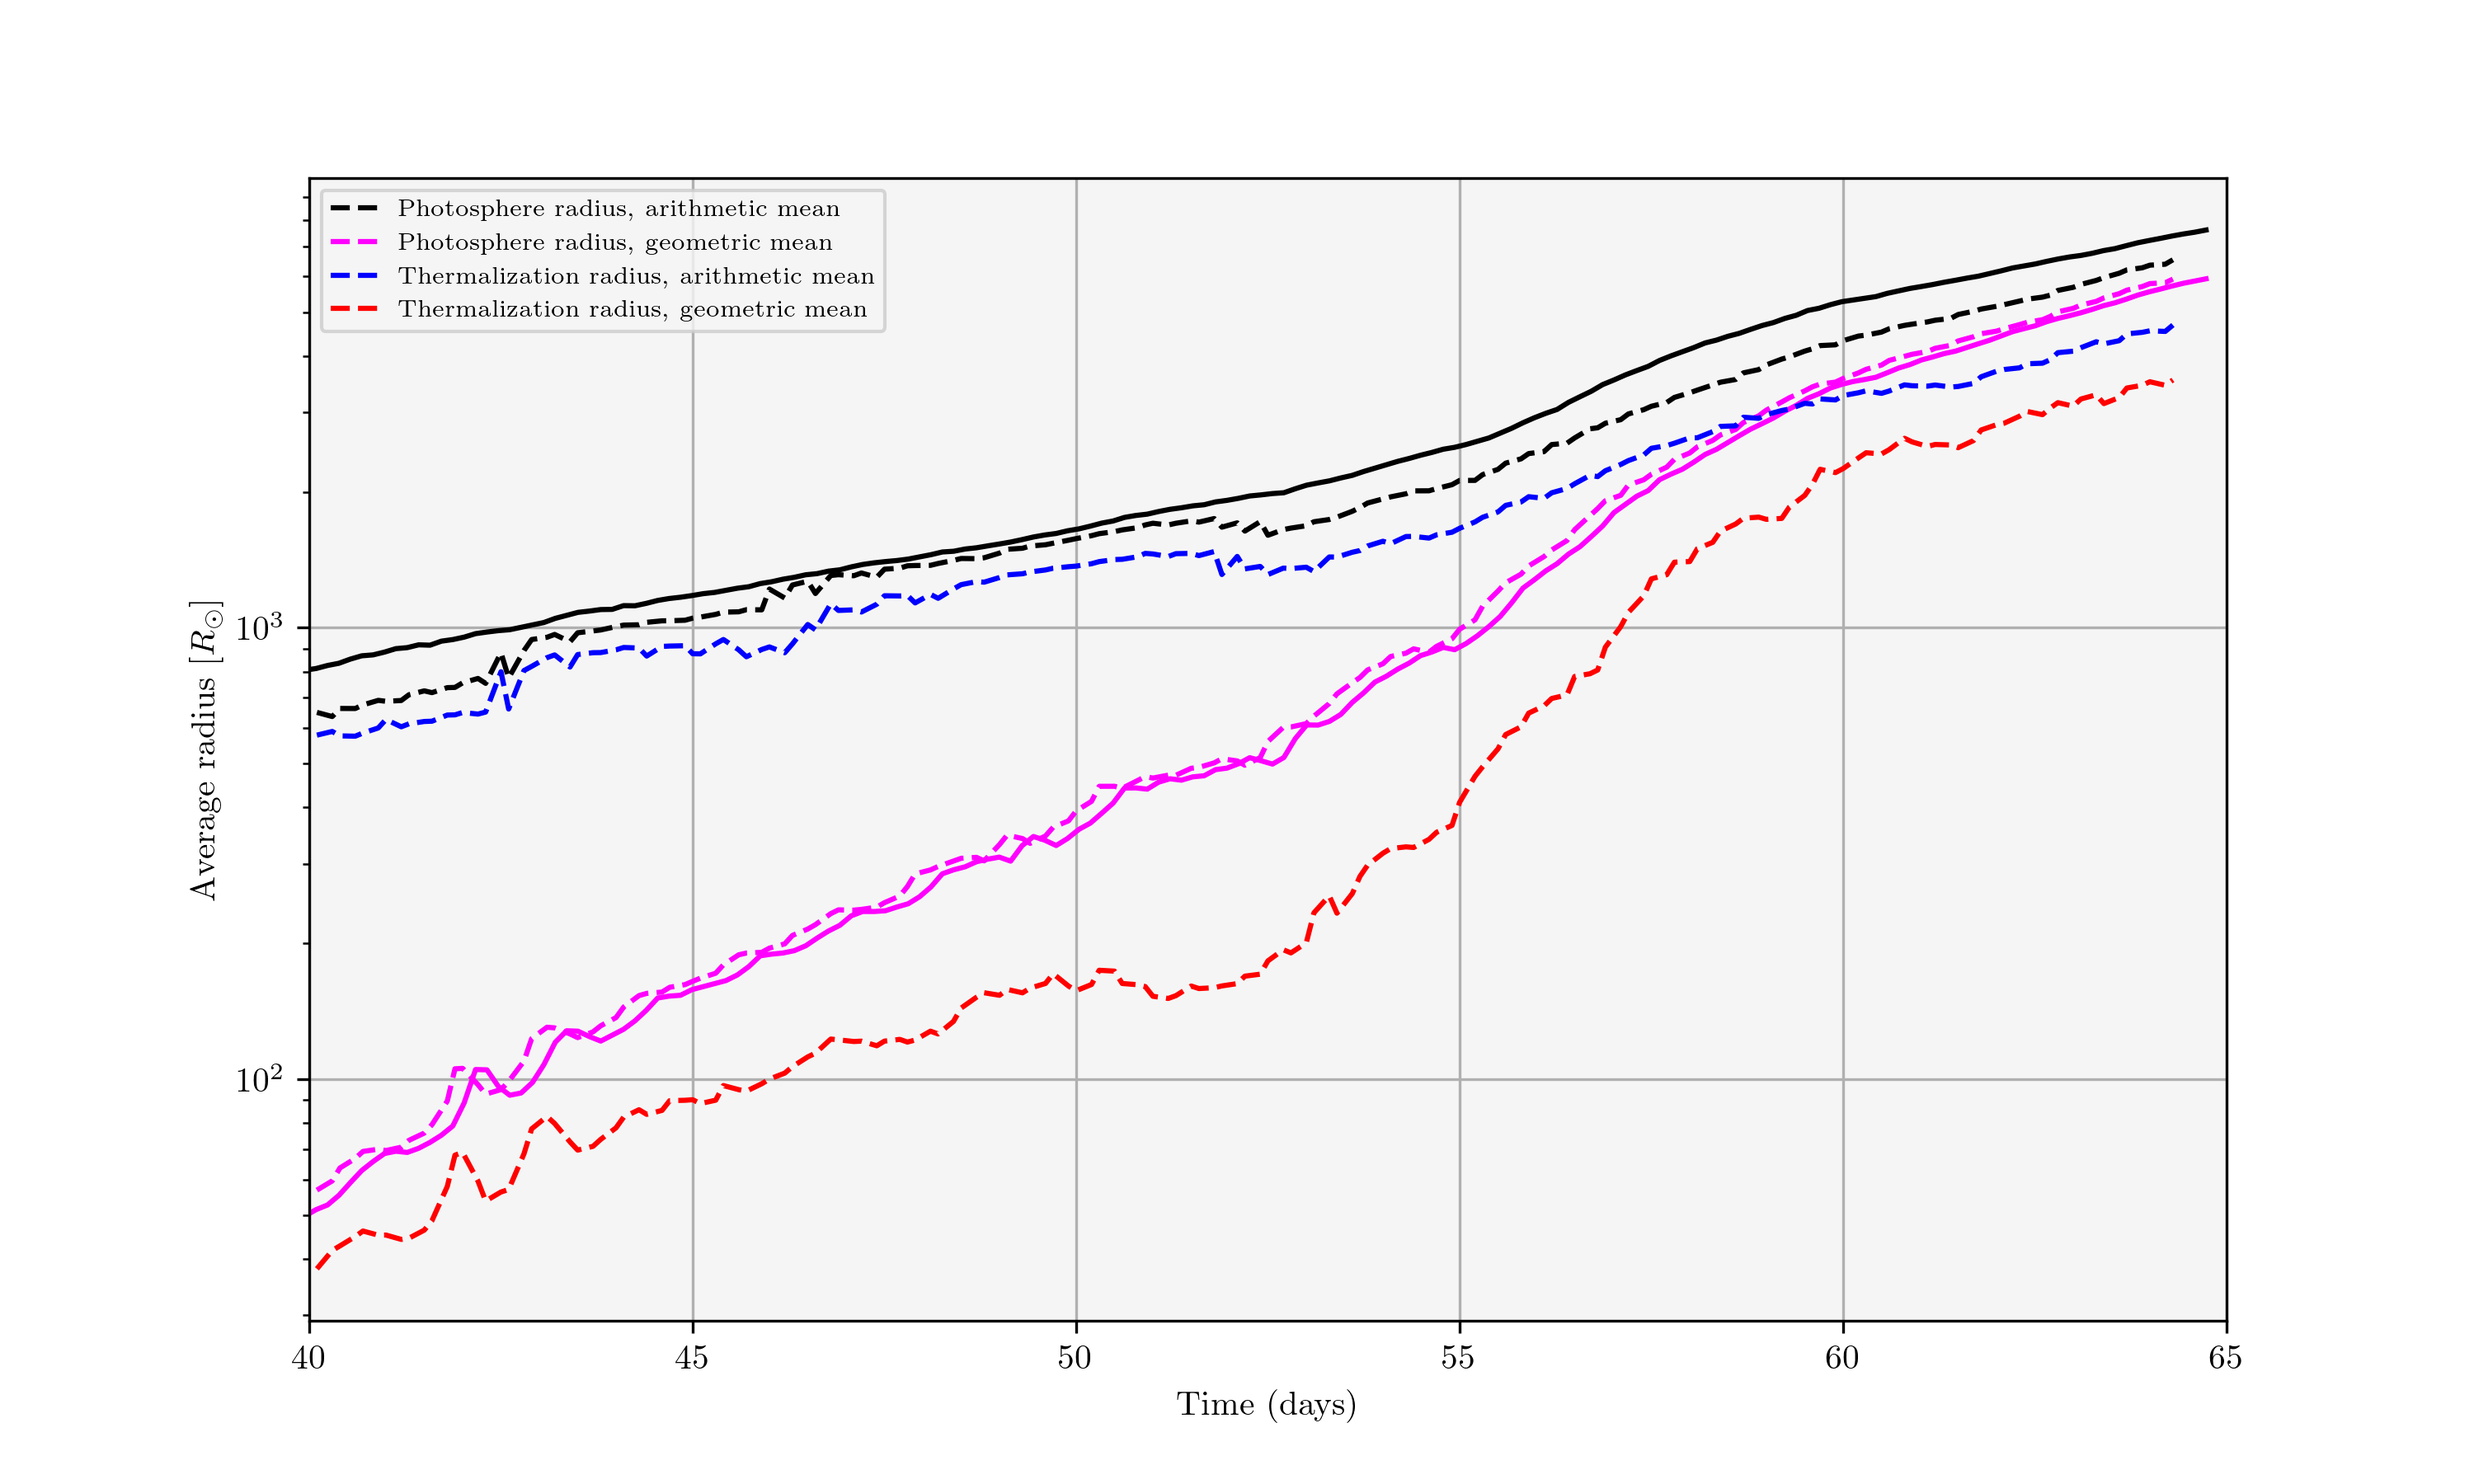
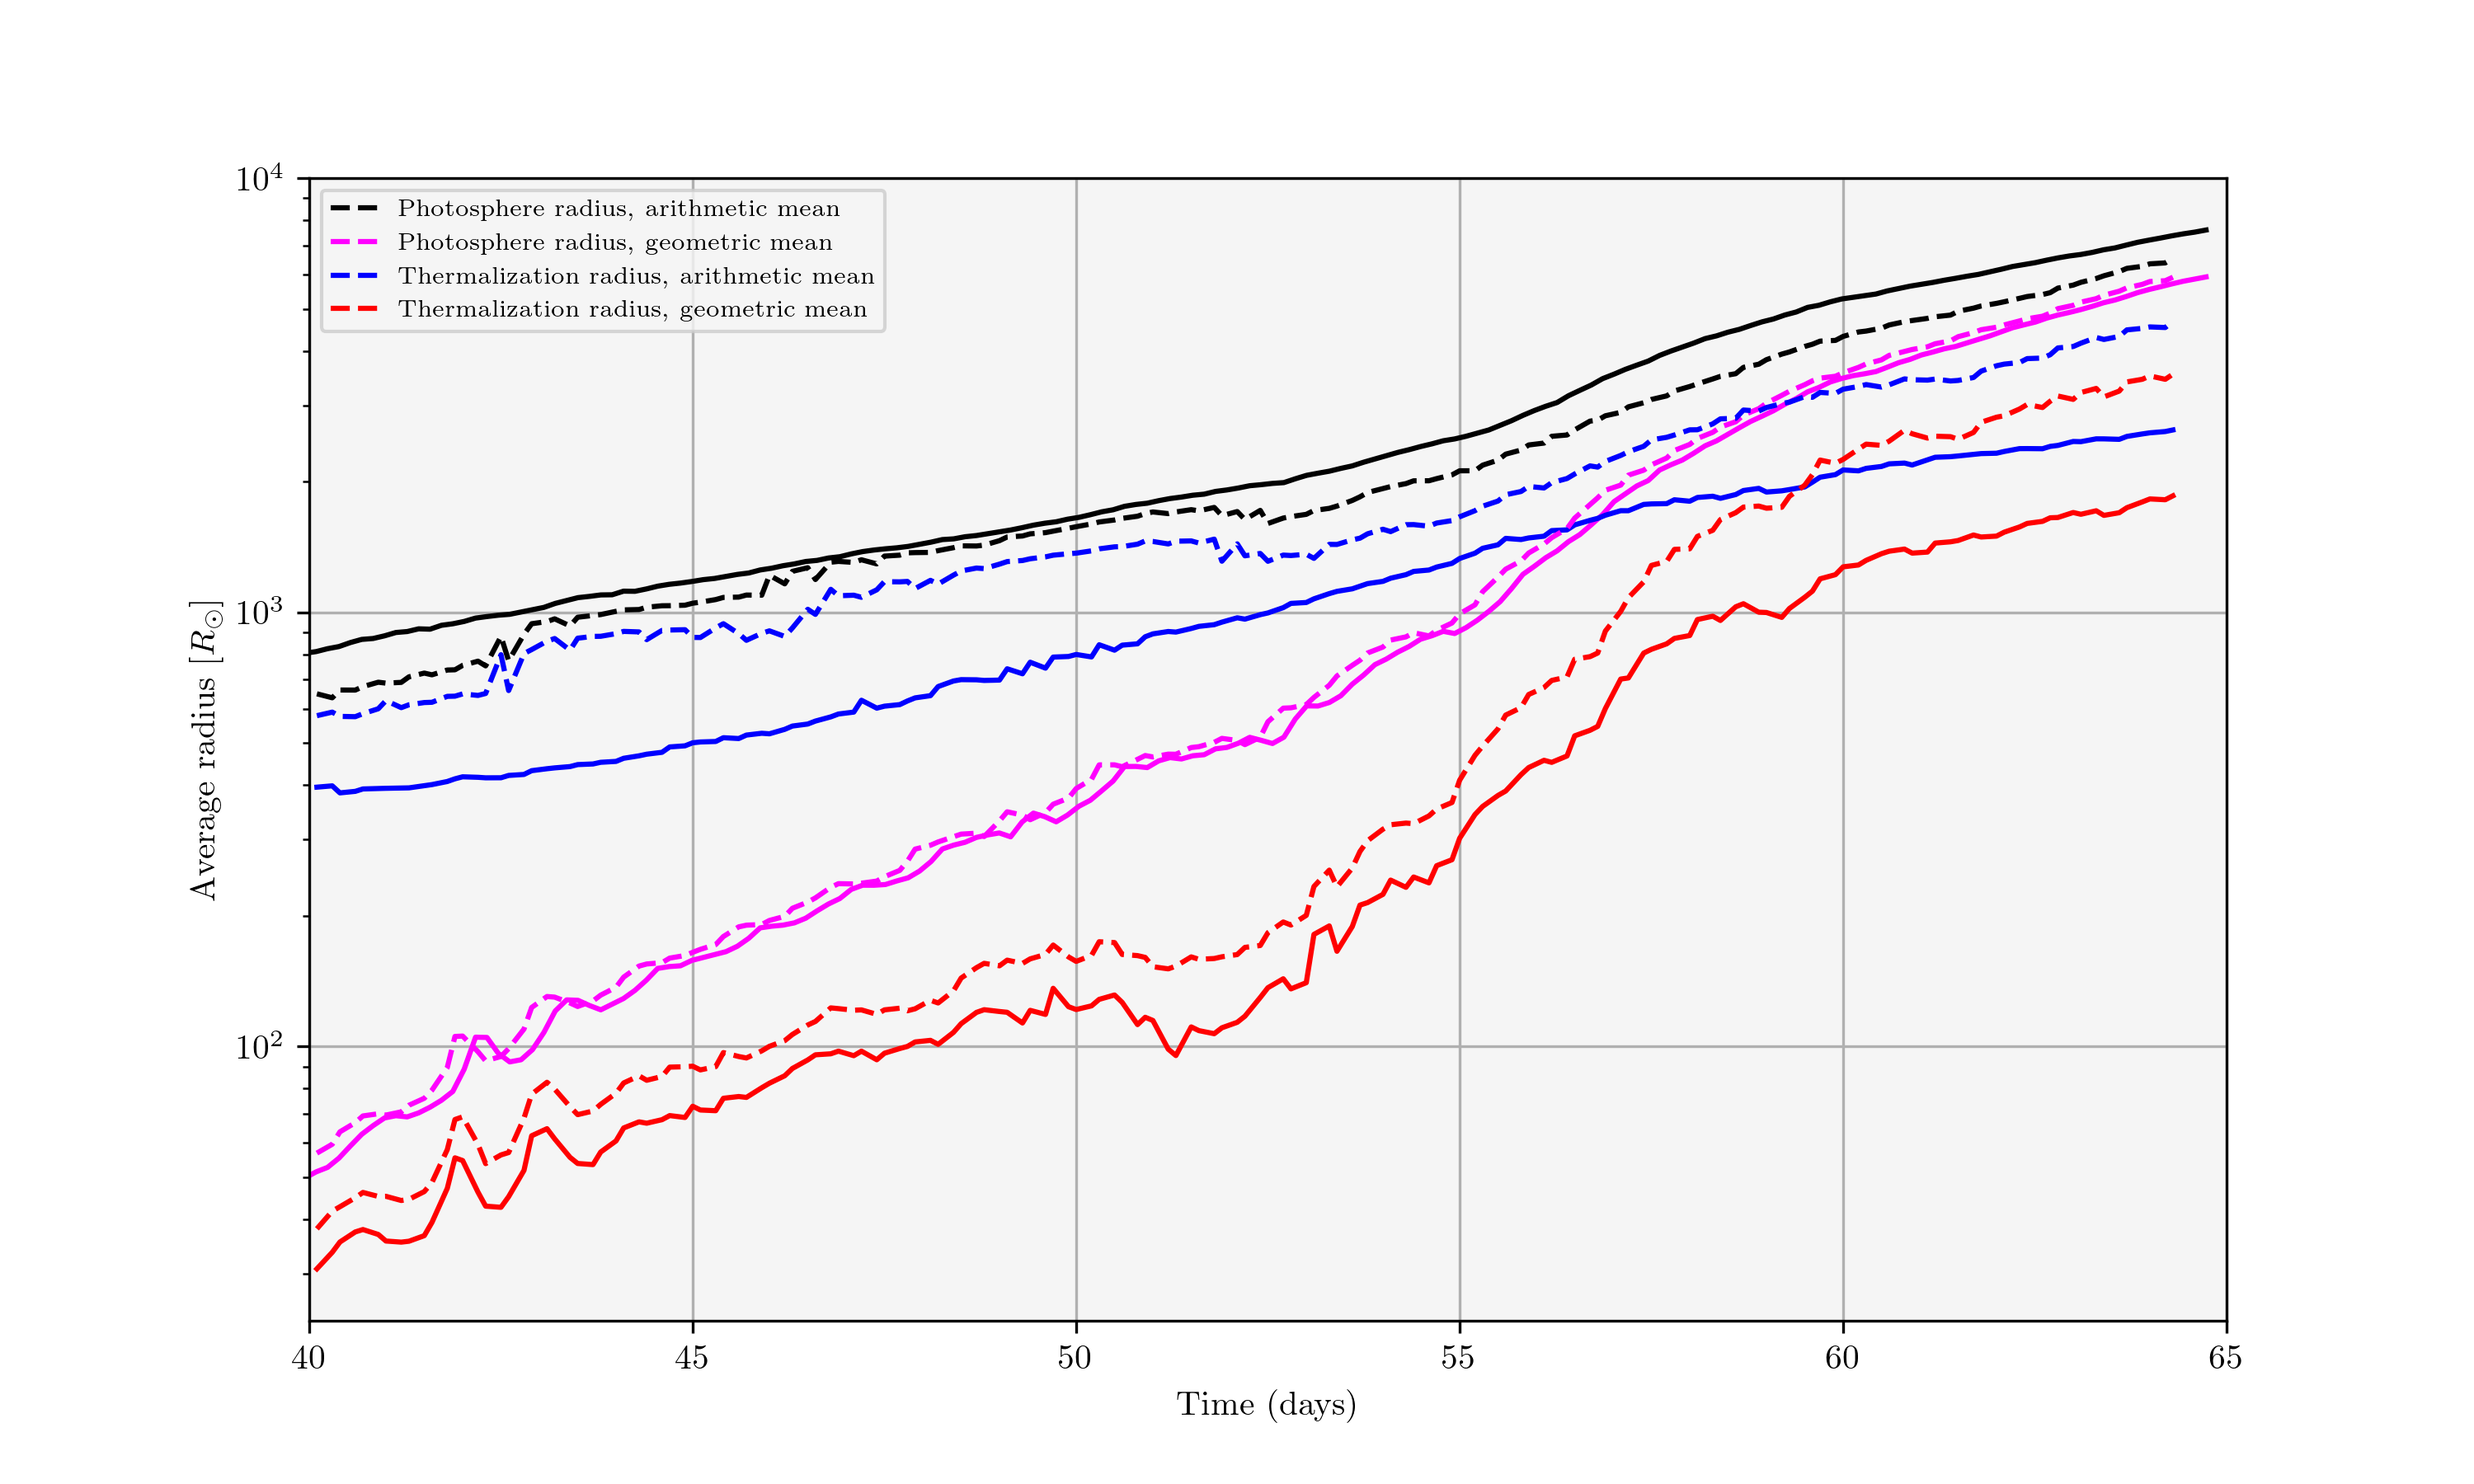
finally data for r_therm (and other messy data from elad) + plot ALL special radii

diff --git a/OLD stuff/spectrTEST.py b/OLD stuff/spectrTEST.py
@@ -23,7 +23,7 @@ from src.Opacity.opacity_table import opacity
 from src.Calculators.ray_tree import ray_maker
 from src.Luminosity.special_radii_tree import get_specialr
 from src.Calculators.select_observers import select_observer 
-from src.Luminosity.select_path import select_snap
+from src.Luminosity.select_path import select_prefix, select_snap
 from datetime import datetime
 plt.rcParams['text.usetex'] = True
 plt.rcParams['figure.dpi'] = 300
@@ -115,6 +115,9 @@ if __name__ == "__main__":
     m = 6
     check = 'fid'
     num = 1000
+    Mbh = 10**m
+    Rt =  Mbh**(1/3) # Msol = 1, Rsol = 1
+    pre = select_prefix(m, check)
 
     # Choose the observers: theta in [0, pi], phi in [0,2pi]
     wanted_thetas = [np.pi/2, np.pi/2, np.pi/2, np.pi/2, np.pi, 0] # x, -x, y, -y, z, -z
@@ -152,9 +155,26 @@ if __name__ == "__main__":
         snap = snapshots[idx_sn]
         print(f'Snap{snap}')
 
-        # Get thermalisation radius
+        # Getobservers
         tree_indexes, observers, rays_T, rays_den, _, radii, _ = ray_maker(snap, m, check, num)
-        _, rays_cumulative_taus, _, _, _ = get_specialr(rays_T, rays_den, radii, tree_indexes, select = 'thermr')
+   
+        # Import
+        X = np.load(f'{pre}{snap}/CMx_' + snap + '.npy') 
+        Y = np.load(f'{pre}{snap}/CMy_' + snap + '.npy')
+        Z = np.load(f'{pre}{snap}/CMz_' + snap + '.npy')
+        
+        # Change origin
+        X -= Rt
+
+        # Build a matrix observer x cell_radius with coordinates of the tree
+        tree = []
+        for idx_branch in range(len(tree_indexes)):
+            branch = []
+            for idx_leaf in range(len(tree_indexes[idx_branch])):
+                xyz_leaf = [X[idx_leaf], Y[idx_leaf], Z[idx_leaf]]
+                branch.append(xyz_leaf)
+            tree.append(branch)
+        print(f'matrix: {np.shape(tree)}')
 
         thetas = np.zeros(192)
         phis = np.zeros(192) 
@@ -162,6 +182,9 @@ if __name__ == "__main__":
             thetas[iobs] = observers[iobs][0]
             phis[iobs] =  observers[iobs][1]
 
+        # Get thermalisation radius
+        _, rays_cumulative_taus, _, _, _ = get_specialr(rays_T, rays_den, radii, tree_indexes, select = 'thermr')
+        
         # select the observer
         for idx in range(len(wanted_thetas)):
             wanted_theta = wanted_thetas[idx]

diff --git a/src/Luminosity/special_radii_tree.py b/src/Luminosity/special_radii_tree.py
@@ -18,6 +18,7 @@ sys.path.append('/Users/paolamartire/tde_comparison')
 import numpy as np
 import healpy as hp
 from scipy.stats import gmean
+import h5py
 
 import matplotlib.pyplot as plt
 import matplotlib.colors as colors
@@ -210,9 +211,9 @@ def get_specialr(rays_T, rays_den, radius, tree_indexes, select):
 ################
 
 if __name__ == "__main__":
-    photosphere = True
+    photosphere = False
     thermalisation = True
-    plot = False
+    plot = True
     check = 'fid'
     m = 6 
 
@@ -225,22 +226,9 @@ if __name__ == "__main__":
     fix_thermr_arit = np.zeros(len(snapshots))
     fix_thermr_geom = np.zeros(len(snapshots))
 
-    for index in range(0,len(snapshots)):        
+    for index in range(1,2):#(0,len(snapshots)):        
         print('Snapshot ' + str(snapshots[index]))
         tree_indexes, _, rays_T, rays_den, rays, radii, rays_vol = ray_maker(snapshots[index], m, check)
-
-        # dim_ph = np.zeros(len(rays_index_photo))
-        # sushi = np.zeros(192)
-        # for j in range(len(rays_index_photo)):
-        #     find_index_cell = int(rays_index_photo[j])
-        #     vol_ph = rays_vol[j][find_index_cell]
-        #     dim_ph[j] = (3 * vol_ph /(4 * np.pi))**(1/3) #in solar units
-        #     dim_grid = (radii[find_index_cell+1]-radii[find_index_cell])/Rsol_to_cm #in solar units
-        #     sushi[j] = dim_ph[j] / dim_grid
-        #     print('Simulation cell R: ' + str(dim_ph[j]))
-        #     print('Our grid: ' + str(dim_grid))
-        # sushi_mean = np.mean(sushi)
-        # print('ratio: ' + str(sushi_mean))
 
         if photosphere:
             rays_kappa, rays_cumulative_kappas, rays_photo, _, _ = get_specialr(rays_T, rays_den, radii, tree_indexes, select='photo')
@@ -285,8 +273,7 @@ if __name__ == "__main__":
                 plt.grid()
                 plt.legend()
                 plt.savefig('therm_obs' + str(snapshots[index]) + '.png')
-                plt.show()   
-
+                plt.show()  
 
     if photosphere:         
         with open(f'data/special_radii_m{m}.txt', 'a') as file:

diff --git a/src/Plotting/Light-Curves/comparison_with_elad.py b/src/Plotting/Light-Curves/comparison_with_elad.py
@@ -17,9 +17,9 @@ plt.rcParams['font.family'] = 'Times New Roman'
 plt.rcParams['figure.figsize'] = [10 , 6]
 plt.rcParams['axes.facecolor'] = 'whitesmoke'
 
-plot_curves = True
+plot_curves = False
 residuals = True
-plot_radii_sphere = False
+plot_radii_sphere = True
 plot_fit = False
 m = 6
 check = 'fid'
@@ -85,9 +85,10 @@ if plot_curves:
 if plot_radii_sphere:
     # Elad load 
     mat = scipy.io.loadmat('data/elad_radii.mat')
+    rtherm =  np.loadtxt('data/elad_rtherm.txt')
     elad_time = mat['x']
-    elad_amean = mat['a_mean']
-    elad_gmean = mat['g_mean']
+    elad_amean_ph = mat['a_mean']
+    elad_gmean_ph = mat['g_mean']
 
     # Our load 
     # spec_radii = np.loadtxt('data/local_special_radii_m'+ str(m) + '.txt') 
@@ -101,8 +102,10 @@ if plot_radii_sphere:
     thermr_geom = spec_radii[4]
 
     #Elad plot
-    plt.plot(elad_time[0], elad_amean[0], c = 'k')
-    plt.plot(elad_time[0], elad_gmean[0], c = 'magenta')
+    plt.plot(elad_time[0], elad_amean_ph[0], c = 'k')
+    plt.plot(elad_time[0], elad_gmean_ph[0], c = 'magenta')
+    plt.plot(days, rtherm[0], c = 'b')
+    plt.plot(days,rtherm[1], c = 'r')
 
     # Our plot
     plt.plot(days, photo_arit, '--', color = 'black', label = 'Photosphere radius, arithmetic mean')
